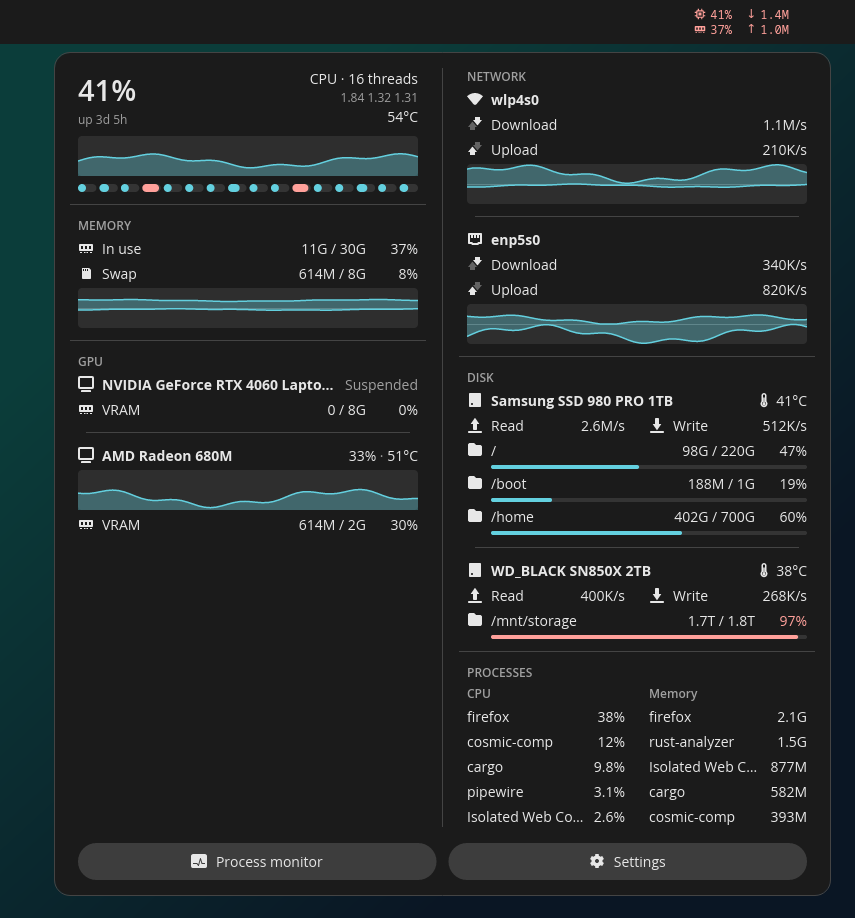
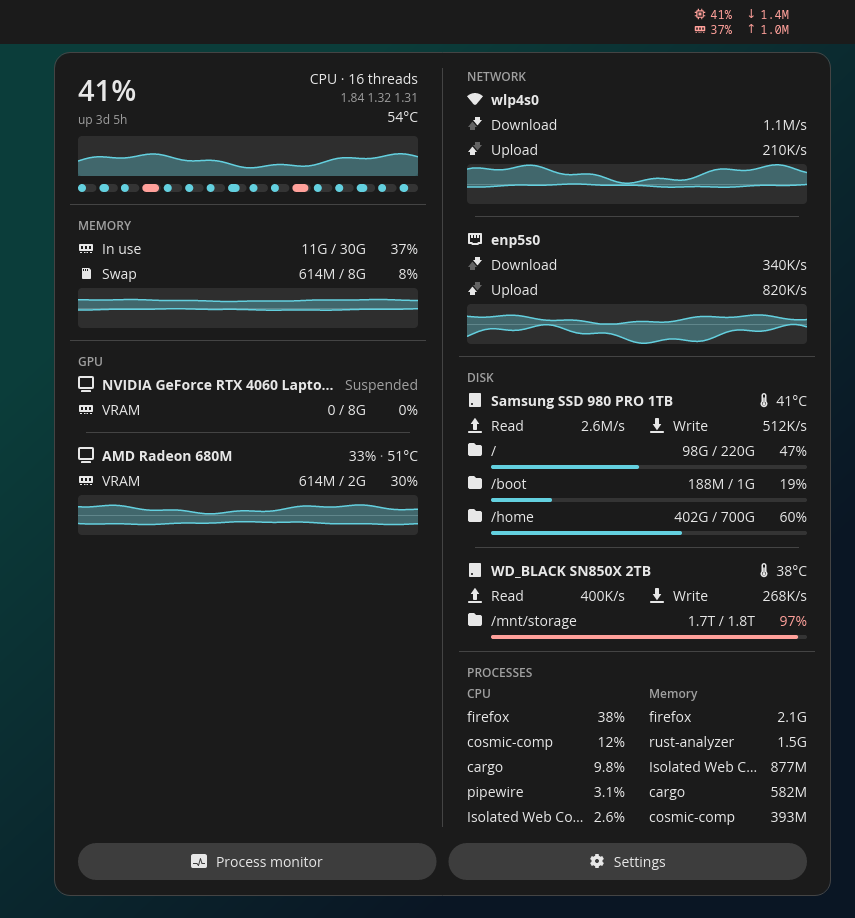
release: 0.1.0
First release: metainfo text and release entry, fresh screenshots, and the
builder's docs without the preview.

Changed region(s): [[0.0912, 0.5185, 0.4865, 0.5795]]

diff --git a/docs/implementation-plan.md b/docs/implementation-plan.md
@@ -200,8 +200,8 @@ sampler in both tiers. Memory, swap and VRAM show amounts ("5.2G"), not percenta
 
 Inside the popup, like the reference and like codexbar's panel page:
 
-- Panel button: opens the builder of [`docs/panel-builder.md`](panel-builder.md) (live preview, layout,
-  the two rows of items), which replaced the Layout, Top row, Bottom row and Network speed controls
+- Panel button: opens the builder of [`docs/panel-builder.md`](panel-builder.md) (layout, the two rows
+  of items), which replaced the Layout, Top row, Bottom row and Network speed controls
 - Process monitor: a desktop ID or command (D5), with a reset to the default
 - Popup layout: Auto / One column / Two columns (§2.2)
 - Warn at or above: each warning of §2.1 with a switch and its limit, typed or set with − and +
@@ -346,6 +346,14 @@ Each phase ends with something runnable and with its checks passing.
 - Repeat the P1 measurements with the popup closed, then measure with the popup open, both on battery. Write the
   numbers in the README.
 - Metainfo screenshots (`just screenshots` as in codexbar), submission to cosmic-flatpak.
+
+**Released 2026-11-19** as 0.1.0, as codexbar was: `Cargo.toml` was already at 0.1.0, so the tag is an
+annotated `0.1.0` on the release commit, made by hand. The metainfo has a `<release>` for it and passes
+`appstreamcli validate --pedantic`. `just cosmic-flatpak 0.1.0` writes the pop-os/cosmic-flatpak copy of the
+manifest, pinned to the tag and its commit, for a PR from the `add-sysmon-applet` branch of the
+leonardo-panseri/cosmic-flatpak fork. Its description is the maintainer's to write: cosmic-flatpak's PR template
+has contributors confirm that, apart from their own app source and manifest, the PR has no LLM-generated
+content, descriptions included.
 
 ---
 

diff --git a/README.md b/README.md
@@ -27,8 +27,8 @@ the Omarchy plugin [navjottomer.sysmon][omarchy-sysmon] (design only; no code is
   2-minute graphs.
 - **Popup layout:** one column or two (CPU, memory and GPU beside network, disk and processes). Auto, the
   default, takes two columns when one wouldn't fit the screen's height without scrolling.
-- **Settings page** in the popup, with a builder for the panel button: a live preview, the layout, and the
-  rows as chips to move, remove, retarget or add to. Changes apply at once and are kept.
+- **Settings page** in the popup, with a builder for the panel button: the layout, and the rows as chips
+  to move, remove, retarget or add to. Changes apply to the panel at once and are kept.
 - **Right click** on the panel button, or **Process monitor** in the popup, opens COSMIC's System Monitor,
   or the app you choose in the settings: a desktop ID (`io.missioncenter.MissionCenter`) or a command
   (`kitty -e btop`).

diff --git a/CONTEXT.md b/CONTEXT.md
@@ -19,11 +19,16 @@ _Avoid_: row (for a single value), cell, widget, metric
 **Row**:
 One of the panel button's two ordered lists of up to four items: the top row and the bottom row. On a
 vertical panel a row may stand as a column; it is still a row.
-_Avoid_: line, line of items
+_Avoid_: line, line of items (a **line** is both rows)
+
+**Line**:
+Both rows as one list, the top row first: what the One line layout shows, and what the builder edits in
+that layout. An edit there folds the line back into two rows of about the same length.
+_Avoid_: row (for both rows together)
 
 **Builder**:
-The settings page's sub-page that edits the panel button: a live preview, the layout, and the rows as
-chips.
+The settings page's sub-page that edits the panel button: the layout, and the rows (or, on One line, the
+line) as chips. It has no preview: the panel button itself shows each change.
 _Avoid_: editor, designer
 
 **Popup**:
